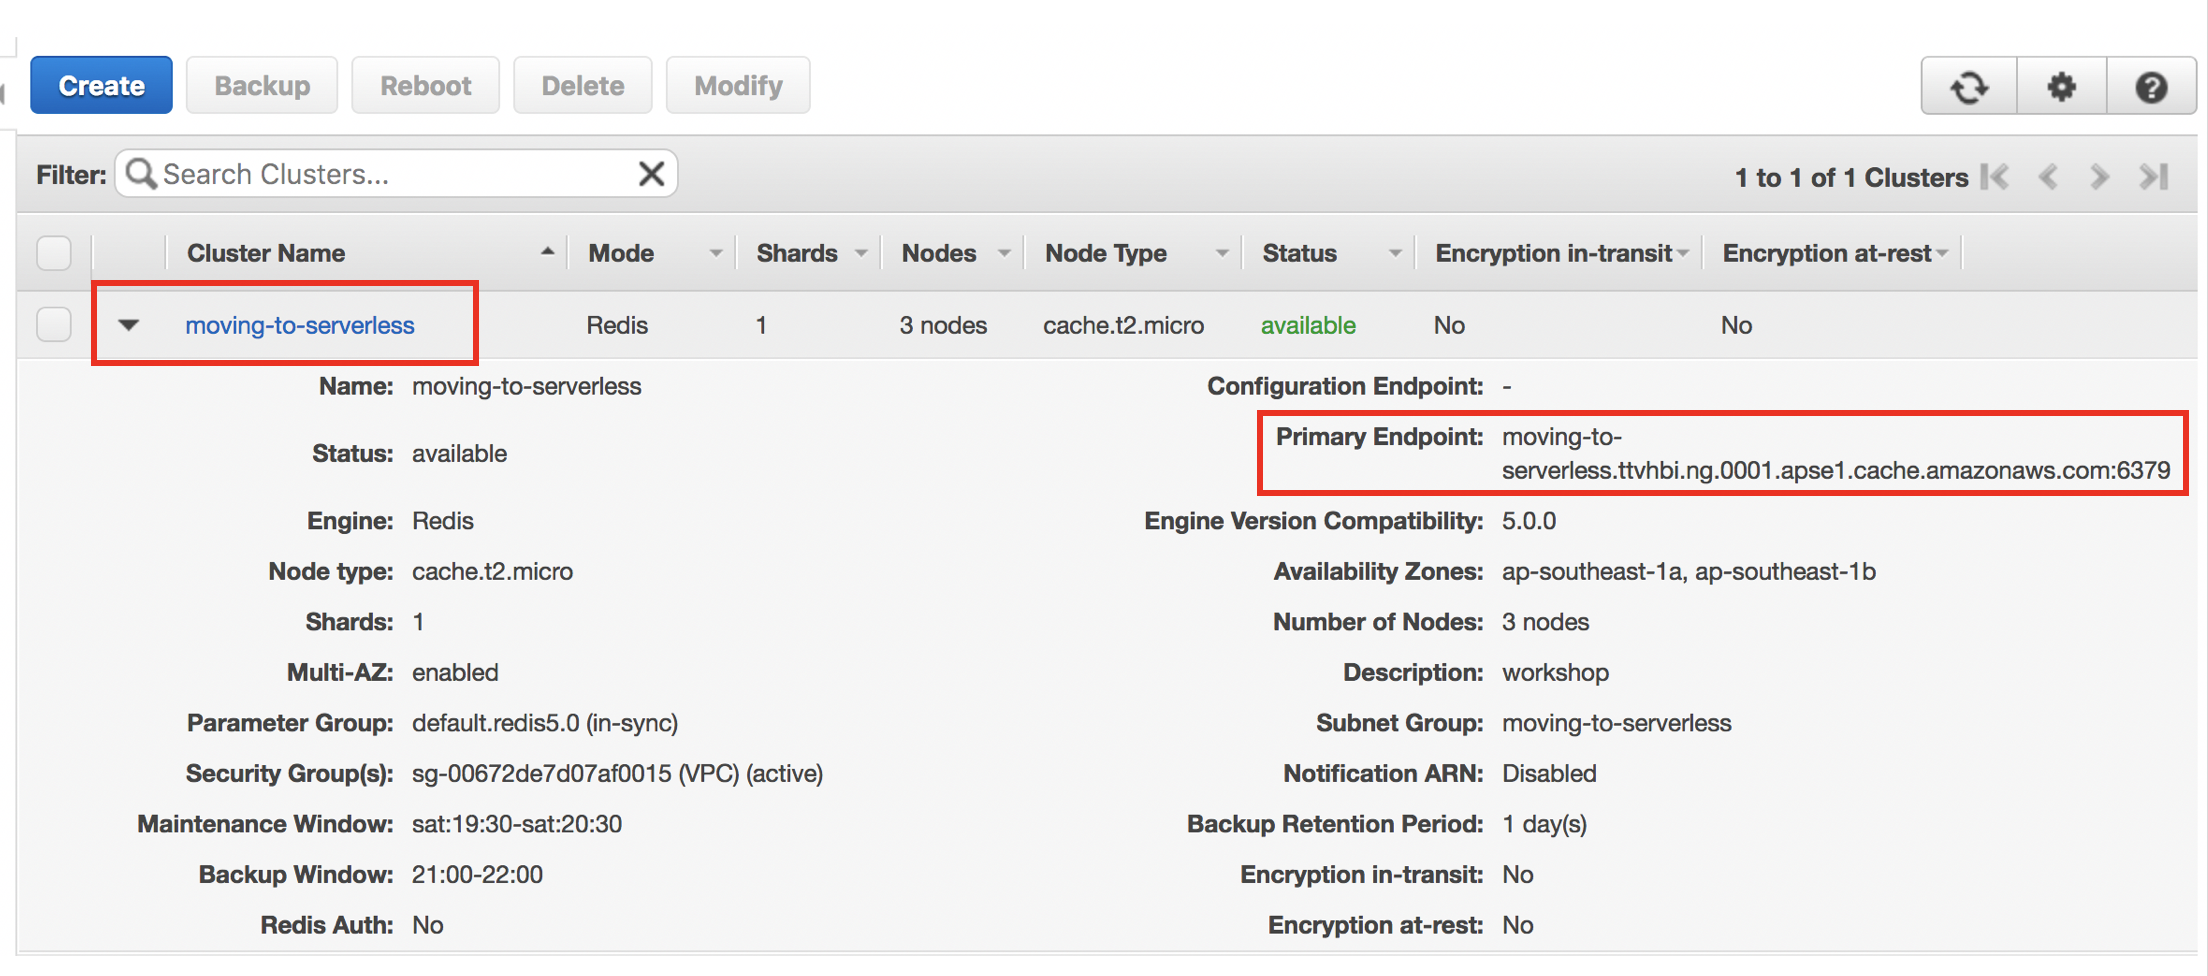
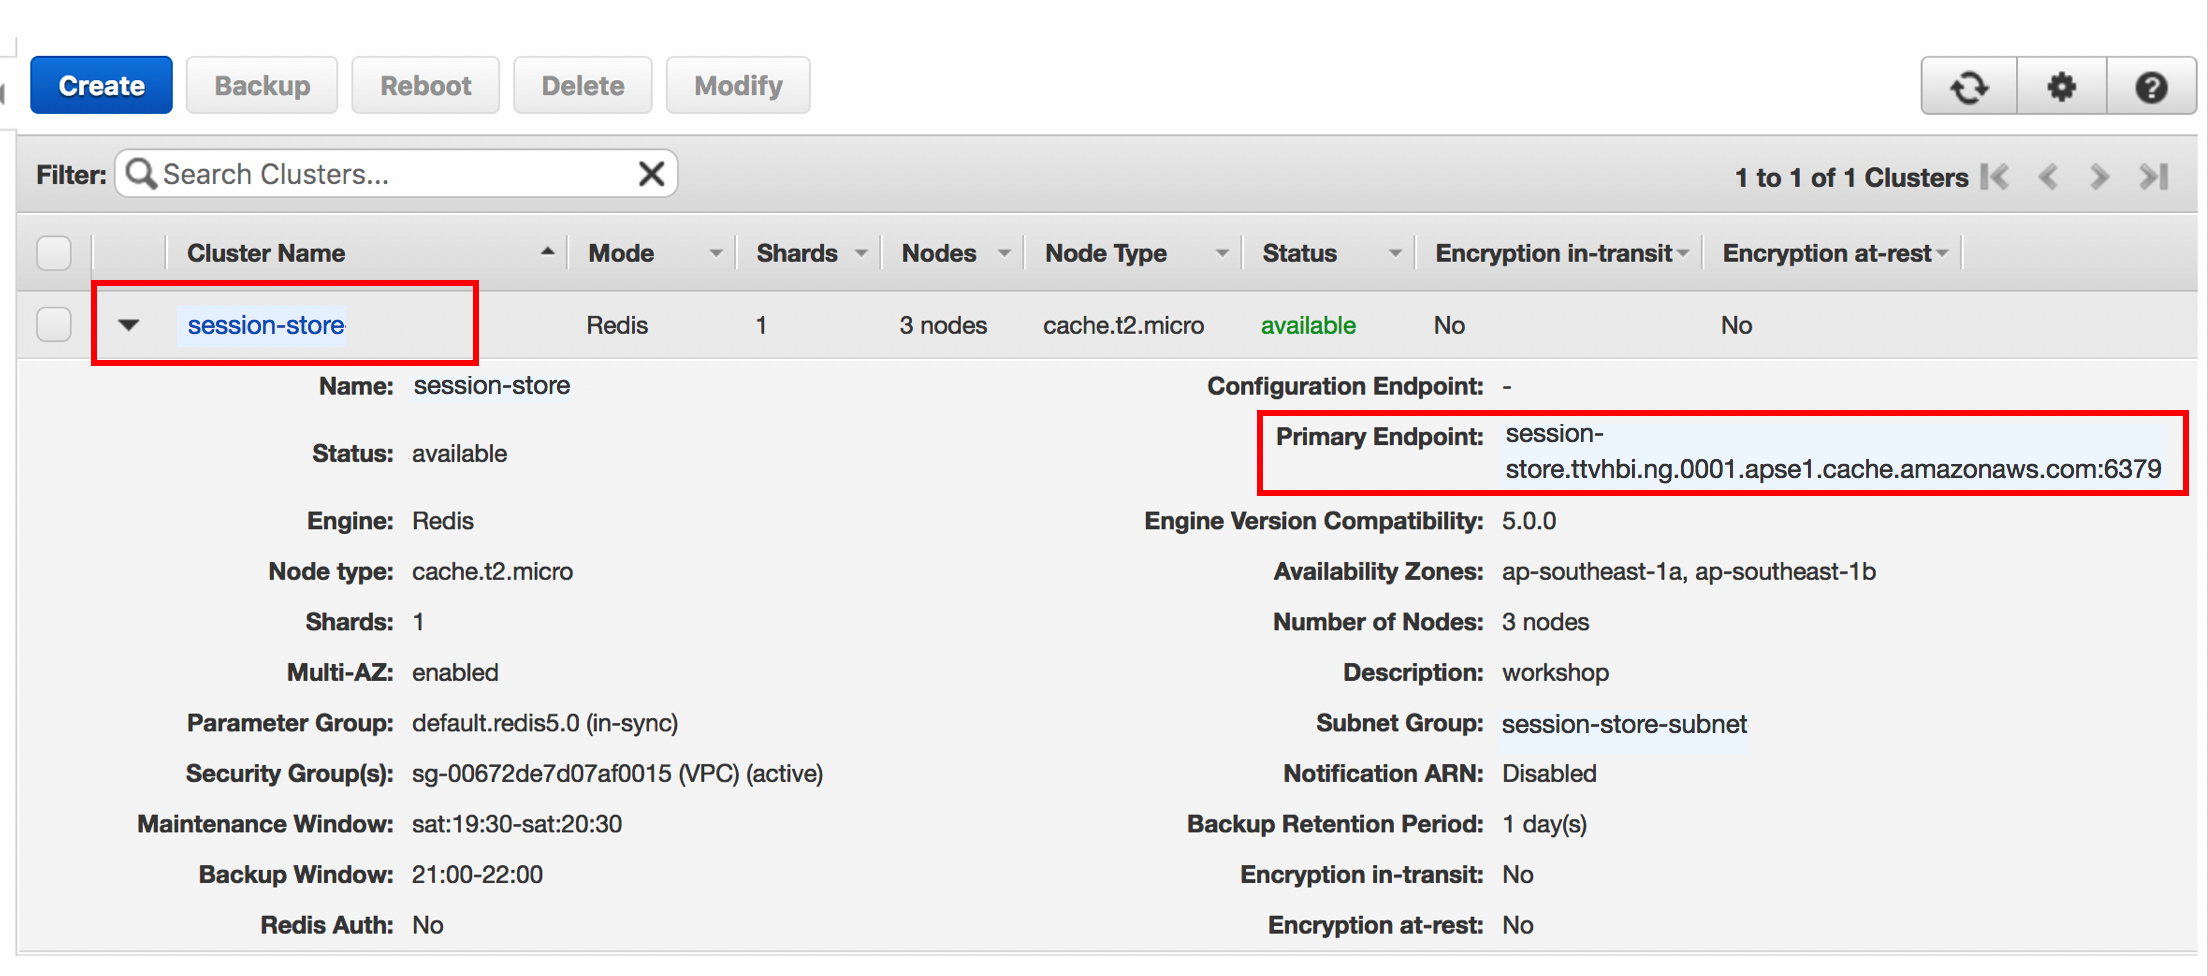
Fix typo in images.

diff --git a/lab-guide/LAB02.md b/lab-guide/LAB02.md
@@ -74,12 +74,12 @@ Amazon Elastic File System (Amazon EFS) provides a simple, scalable, elastic fil
 
 16. On the **Configure file system access** page, choose your VPC . You can check the name of VPC, it should contain ***moving-to-serverless***. Then you have to choose pair of **Private subnets** and please check the each Availibity Zone of subnet. 
 
-17. Click **Next Step** button. You can refer to following screen caputure image.
+17. Click **Next Step** button. You can refer to following screen capture image.
 
     <img src=./images/lab02-task2-efs-1.png width=700>
 
 
-18. On the **Configure optional settings** page, type `shared-storage-for-cloudalbum` for key **Name** under **Add tags** section.
+18. On the **Configure optional settings** page, type `shared-storage` for key **Name** under **Add tags** section.
 
 19. Then click **Next Step**. (Leave the remaining configuration as default.)
 
@@ -107,7 +107,7 @@ Amazon ElastiCache offers fully managed Redis and Memcached. Seamlessly deploy, 
  
  * Cluster engine : ***Redis***
  * Redis settings
-   * **Name** : `session-store-for-cloudalbum`
+   * **Name** : `session-store`
    * **Description** : `workshop`
    * **Engine version compatibility** : `5.0.0`
    * **Port** : `6379`
@@ -120,7 +120,7 @@ Amazon ElastiCache offers fully managed Redis and Memcached. Seamlessly deploy, 
 26. In the **Advanced Redis settings** section, configure:
 * **Multi-AZ with Auto-Failover** : [v] (checked)
 * **Subnet  group** : `Create new`
-* **Name** : `session-store-subnet-group`
+* **Name** : `session-store-subnet`
 * **Description** : `workshop`
 * **VPC ID** : You can refer to the **VPCId** in ***Outputs*** tab values of CloudFormation.(**step 13**). 
 * **Subnets** : Choose two subnets with **PriSub1** and **PriSub2** in ***Outputs*** tab values of CloudFormation.(**step 13**). You can refer to the subnet id and CIDR block of **PriSub1** and **PriSub2**.
@@ -283,13 +283,13 @@ Now, let's deploy our application.
 * `APP_PORT` : `5000`
 * `DB_URL` : `mysql+pymysql://serverless:workshop@<YOUR DATABASE ENDPOINT>/ebdb?charset=utf8`
   * **NOTE**: Replace ***`<YOUR DATABASE ENDPOINT>`*** to **your own EndPoint** value which copied previous step. 
-  * For example : "mysql+pymysql://serverless:workshop@`aa1is6q2iidf84x.cjukz33spdko.ap-southeast-1.rds.amazonaws.com:3306`/ebdb?charset=utf8"
+  * For example : `mysql+pymysql://serverless:workshop@`aa1is6q2iidf84x.cjukz33spdko.ap-southeast-1.rds.amazonaws.com:3306`/ebdb?charset=utf8`
 * `EFS_ID` : `<YOUR FILE SYSTEM ID>`
   * We already copied it to notepad in **TASK 2**.
   * For example : fs-5d3e921c
 * `ELCACHE_EP` : `<YOUR ELASTICACHE_ENDPOINT>`
   * We already copied it to notepad in **TASK 3**.
-  * For example (Exclude the port number): "moving-to-serverless.ttvhbi.ng.0001.apse1.cache.amazonaws.com"
+  * For example (Exclude the port number): `session-store-for-cloudalbum.ttvhbi.ng.0001.apse1.cache.amazonaws.com`
 * `FLASK_SECRET` : `serverless`
   * This value will be used for Flask app's SECRET_KEY.
 * `GMAPS_KEY` : `<GMAPS_KEY>`
